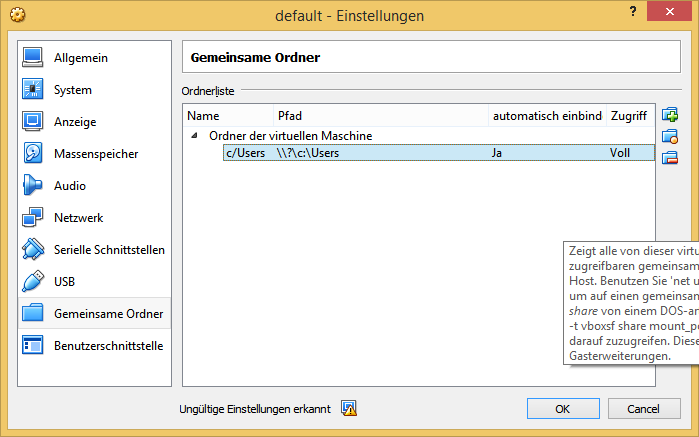
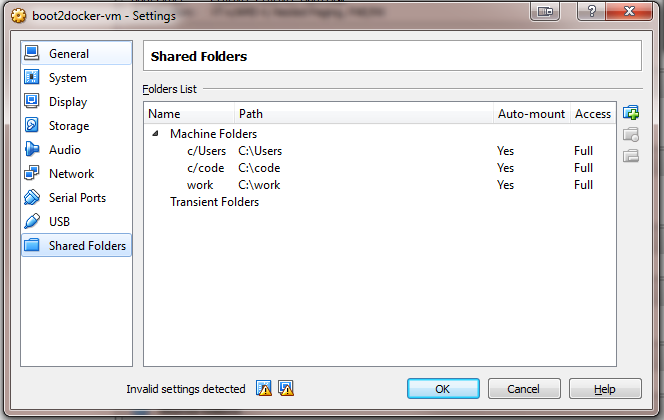
Shared folders with Boot2Docker

Changed region(s): [[0.0, 0.0, 1.0, 1.0]]

diff --git a/Docker/docker.md b/Docker/docker.md
@@ -1,13 +1,15 @@
 
 
 
+
+
 ## 01. Installation
 
 
-**Hosting**
+### Hosting
 - dockerhub.com
 
-**Commands**
+### Commands
 - [Links](https://docs.docker.com/engine/reference/commandline/)
 
 
@@ -20,11 +22,31 @@
 
 **Container**
 - When you create a new container, you add a new, thin, writable layer on top of the underlying stack.
-- All changes made to the running container - such as writing new files, modifying existing files, and deleting files - are written to this thin writable container layer. 
+- All changes made to the running container - such as writing new files, modifying existing files, and deleting files - are written to this thin writable container layer.
 
------------
+_ _ _
 
-### Storage
+#### 2.1 Boot2Docker
+
+- Boot2Docker is a mini-vm running on VirtualBox to use Docker in Windows/OSX.
+- The Docker Toolbox allows to setup Boot2Docker easily
+
+**Start/Access/Stop Boot2Docker**
+1. Start Boot2Docker: gitbash/CMDer/Console `docker-machine start`
+2. SSH to Boot2Docker VM: `docker-machine ssh default`
+3. Return to host console: `[CTRL]` + `[D]`
+
+**Misc Commands**
+- Boot2Docker IP: `docker-machine ip default`
+
+**Handle Docker Containers**
+
+1. Start Container:
+	- Host (Windows) console: `winpty docker run -it my_image_name //bin/bash`
+
+_ _ _
+
+#### 2.2 Storage
 
 **Data volumes**
 - Volumes are initialized when a container is created. If the container’s base image contains data at the specified mount point, that existing data is copied into the new volume upon volume initialization. (Note that this does not apply when mounting a host directory.)
@@ -33,9 +55,55 @@
 - Changes to a data volume will not be included when you update an image.
 - Data volumes persist even if the container itself is deleted.
 
+_ _ _
 
 
-### Networking with boot2docker
+#### 2.3 Examples (Windows)
+
+##### 01. Setup Port Mapping with Boot2Docker
+
+**Test Mapping**
+1. Start nginx server with open port 80
+```bash
+winpty docker run --rm -i -t -p 80:80 nginx
+```
+2. Access from inside boot2docker
+```bash
+curl -I http://localhost:80/
+```
+3. Access from Host system
+```bash
+telnet localhost 80
+```
+_ _ _
+
+##### 02. Start Docker Container
+
+```bash
+winpty docker run -p 9000:9000 -p 8000:8000 -t -i bamos/openface //bin/bash
+```
+- **Network Access**
+    ```bash
+    -p <port_in_container>:<equals_port_on_host>
+    ```
+- **Container Name**
+    ```bash
+    --name <your_custom_container_name>
+    ```
+- **Run Bash in Container**
+	- Allocate a pseudo-tty
+	- Keep STDIN open even if not attached
+    ```bash
+    -t -i //bin/bash
+    ```
+- **Run Python Script in Container**
+    ```bash
+    python app.py
+    ```
+_ _ _
+
+
+##### 2.3 Networking with boot2docker
 - boot2docker manages additional routing between VirtualBox system and the host system
 
 1. Start Container
@@ -60,7 +128,6 @@ docker inspect -f '{{ .NetworkSettings.IPAddress }}' f05e77f4897d
 ```bash
 ping 172.17.0.2
 ```
-
 
 - Ping Boot2Docker from Host - OK
 ```bash
@@ -88,86 +155,48 @@ curl -I http://172.17.0.11:5050/
 telnet 172.17.0.2 80
 ```
 
-
-$ docker run -d --name redis redis
-
-
-
-**Port Publishing**
+##### 2.4 Port Publishing
 
 ```bash
 docker run -p 8888:8080 myimg
 ```
 - Publish port 8080 of container to port 8888 on host
 
--------------
+_ _ _
 
-#### Examples (Windows)
-
-##### 01. Setup Port Mapping with Boot2Docker
-
-
-**Test Mapping**
-1. Start nginx server with open port 80
-```bash
-winpty docker run --rm -i -t -p 80:80 nginx
-```
-2. Access from inside boot2docker
-```bash
-curl -I http://localhost:80/
-```
-3. Access from Host system
-```bash
-telnet localhost 80
-```
-
-----------
-
-##### 02. Start Docker Container
-
-```bash
-winpty docker run -p 9000:9000 -p 8000:8000 -t -i bamos/openface //bin/bash
-```
-- **Network Access**
-    ```bash
-    -p <port_in_container>:<equals_port_on_host>
-    ```
-- **Container Name**
-    ```bash
-    --name <your_custom_container_name>
-    ```
-- **Run Bash in Container**
-	- Allocate a pseudo-tty
-	- Keep STDIN open even if not attached
-    ```bash
-    -t -i //bin/bash
-    ```
-- **Run Python Script in Container**
-    ```bash
-    python app.py
-    ```
-
-----------
-
-##### 03. Mount Host Directory
+##### 03. Shared Directories
+Shared Directories allow to share data between the host system and containers. When using boot2docker, the folders must first be shared with the mini-VM.
 
 1. Open Virtualbox
 2. Change shared folder of boot2docker to the target directory of your host system
+3. Mount the folder in boot2docker (only certain folders are automounted!). Needs to be done at every start of boot2docker
+4. Use `-v` at container start to mount the shared boot2docker folder a container (pre-existing content gets overloaded: accessible again if directory is unloaded)
+    **Example:**`VM_share` is the shared-name of a folder set in VirtualBox, which will be loaded into `/dev` on the container.
+    ```bash
+    docker run -it -v /VM_share:/dev python /bin/bash
+    ```
 
 ![VM Settings](img/vm_settings_1.png)
 
-```bash
-$ docker run -d -P --name web -v /src/webapp:/webapp training/webapp python app.py
-```
+**Automounted Shared Folders**
 
-Mount host directory `/src/webapp` into the container `web` at `/webapp` (pre-existing content gets overloaded: accessible again if directory is unloaded)
-**Windows**
-```bash
-docker run -d -p 8787:8787 -v /c/Users/foobar:/home/rstudio/foobar rocker/rstudio
-```
+Boot2Docker includes the VirtualBox Guest Additions built in for the express purpose of using VirtualBox folder sharing.
+Automatic shared folder name mapping (VirtualBox shared name to Boot2Docker directory):
 
-----------
+- Users share at /Users
+- /Users share at /Users
+- c/Users share at /c/Users
+- /c/Users share at /c/Users
+- c:/Users share at /c/Users
 
+**Custom Folder Mounting**
+Folders with other share names must be mounted manually in boot2docker on every startup.
+
+1. SSH to boot2docker: `docker-machine ssh default`
+2. Make shared folder inside boot2docker VM: `sudo mkdir /VM_share`
+3. Mount Windows folder to it: `sudo mount -t vboxsf win_share /VM_share` (`win_share` is the share-name of the folder, set in the VirtualBox settings)
+
+_ _ _
 
 ##### 04. Permanently running a container
 - ...
@@ -204,6 +233,13 @@ pip2 install -r training/requirements.txt
 CMD /bin/bash -l -c '/root/openface/demos/web/start-servers.sh'
 ```
 
+#### Adding Files to the Image
+
+**Add shared folder of boot2docker**
+`VM_share` is the folder name in boot2docker
+```
+ADD /VM_share /my_projects
+```
 
 
 ## 05. Other Tutorials
